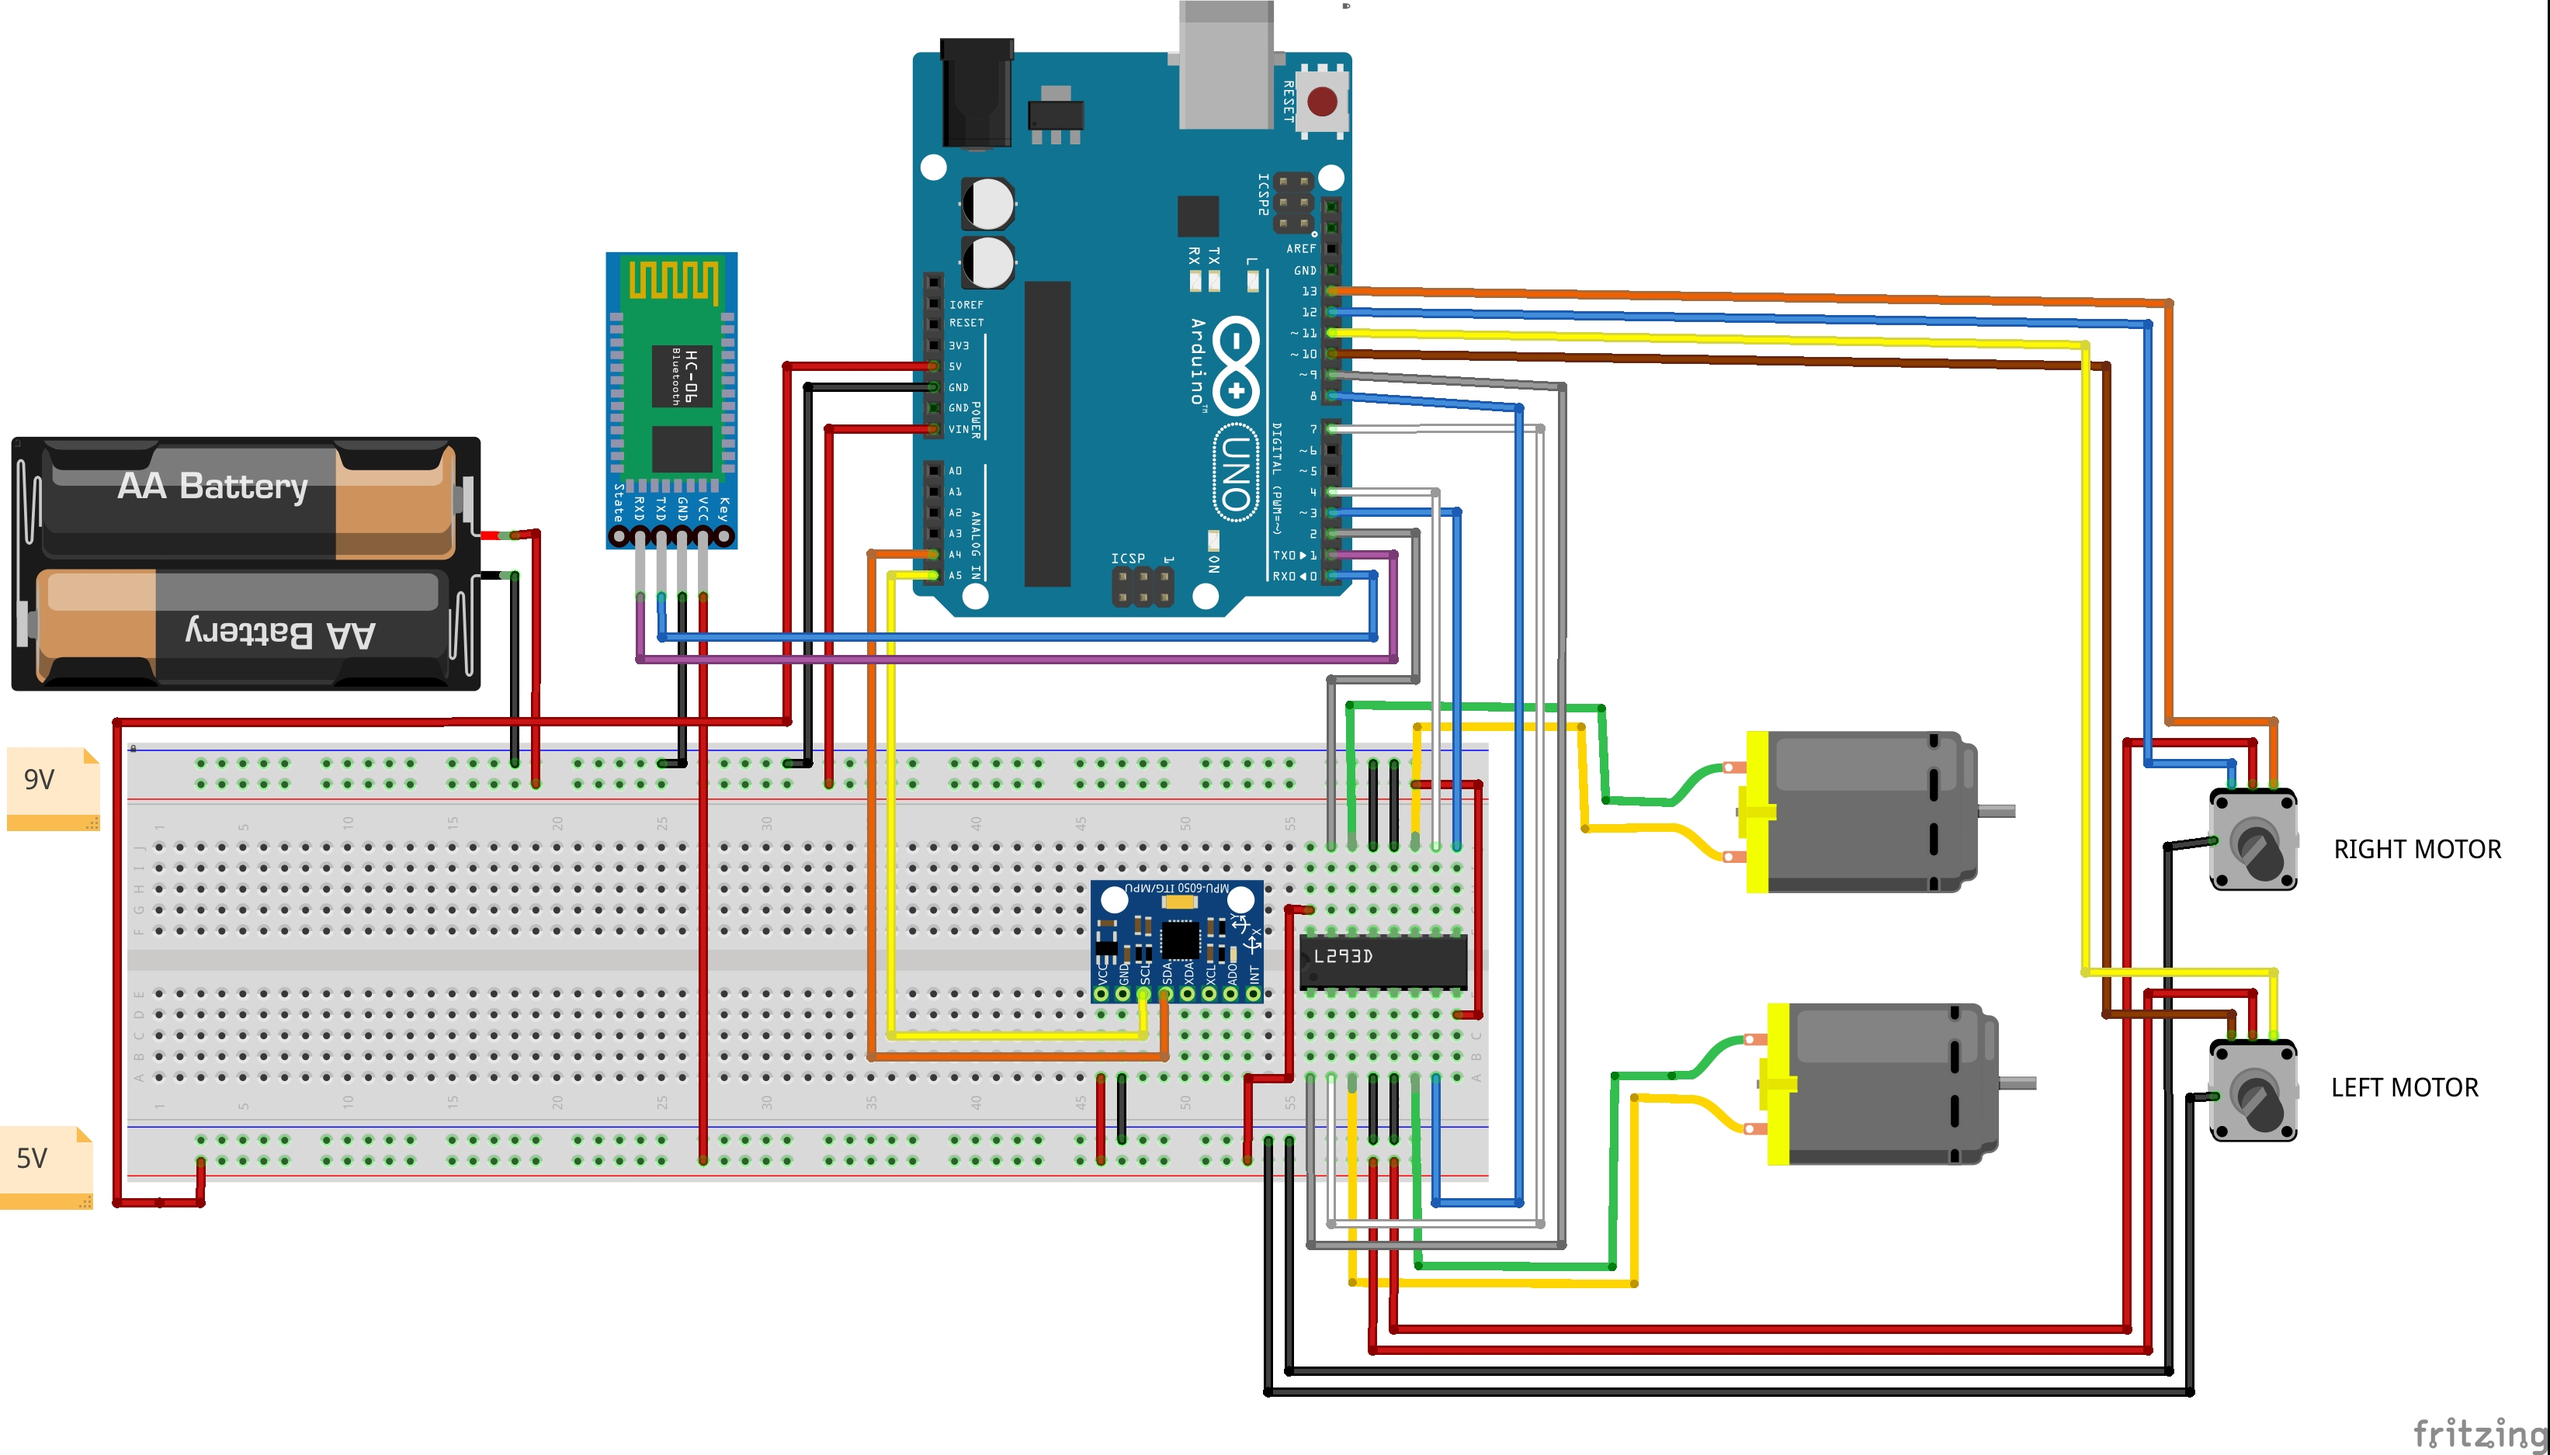
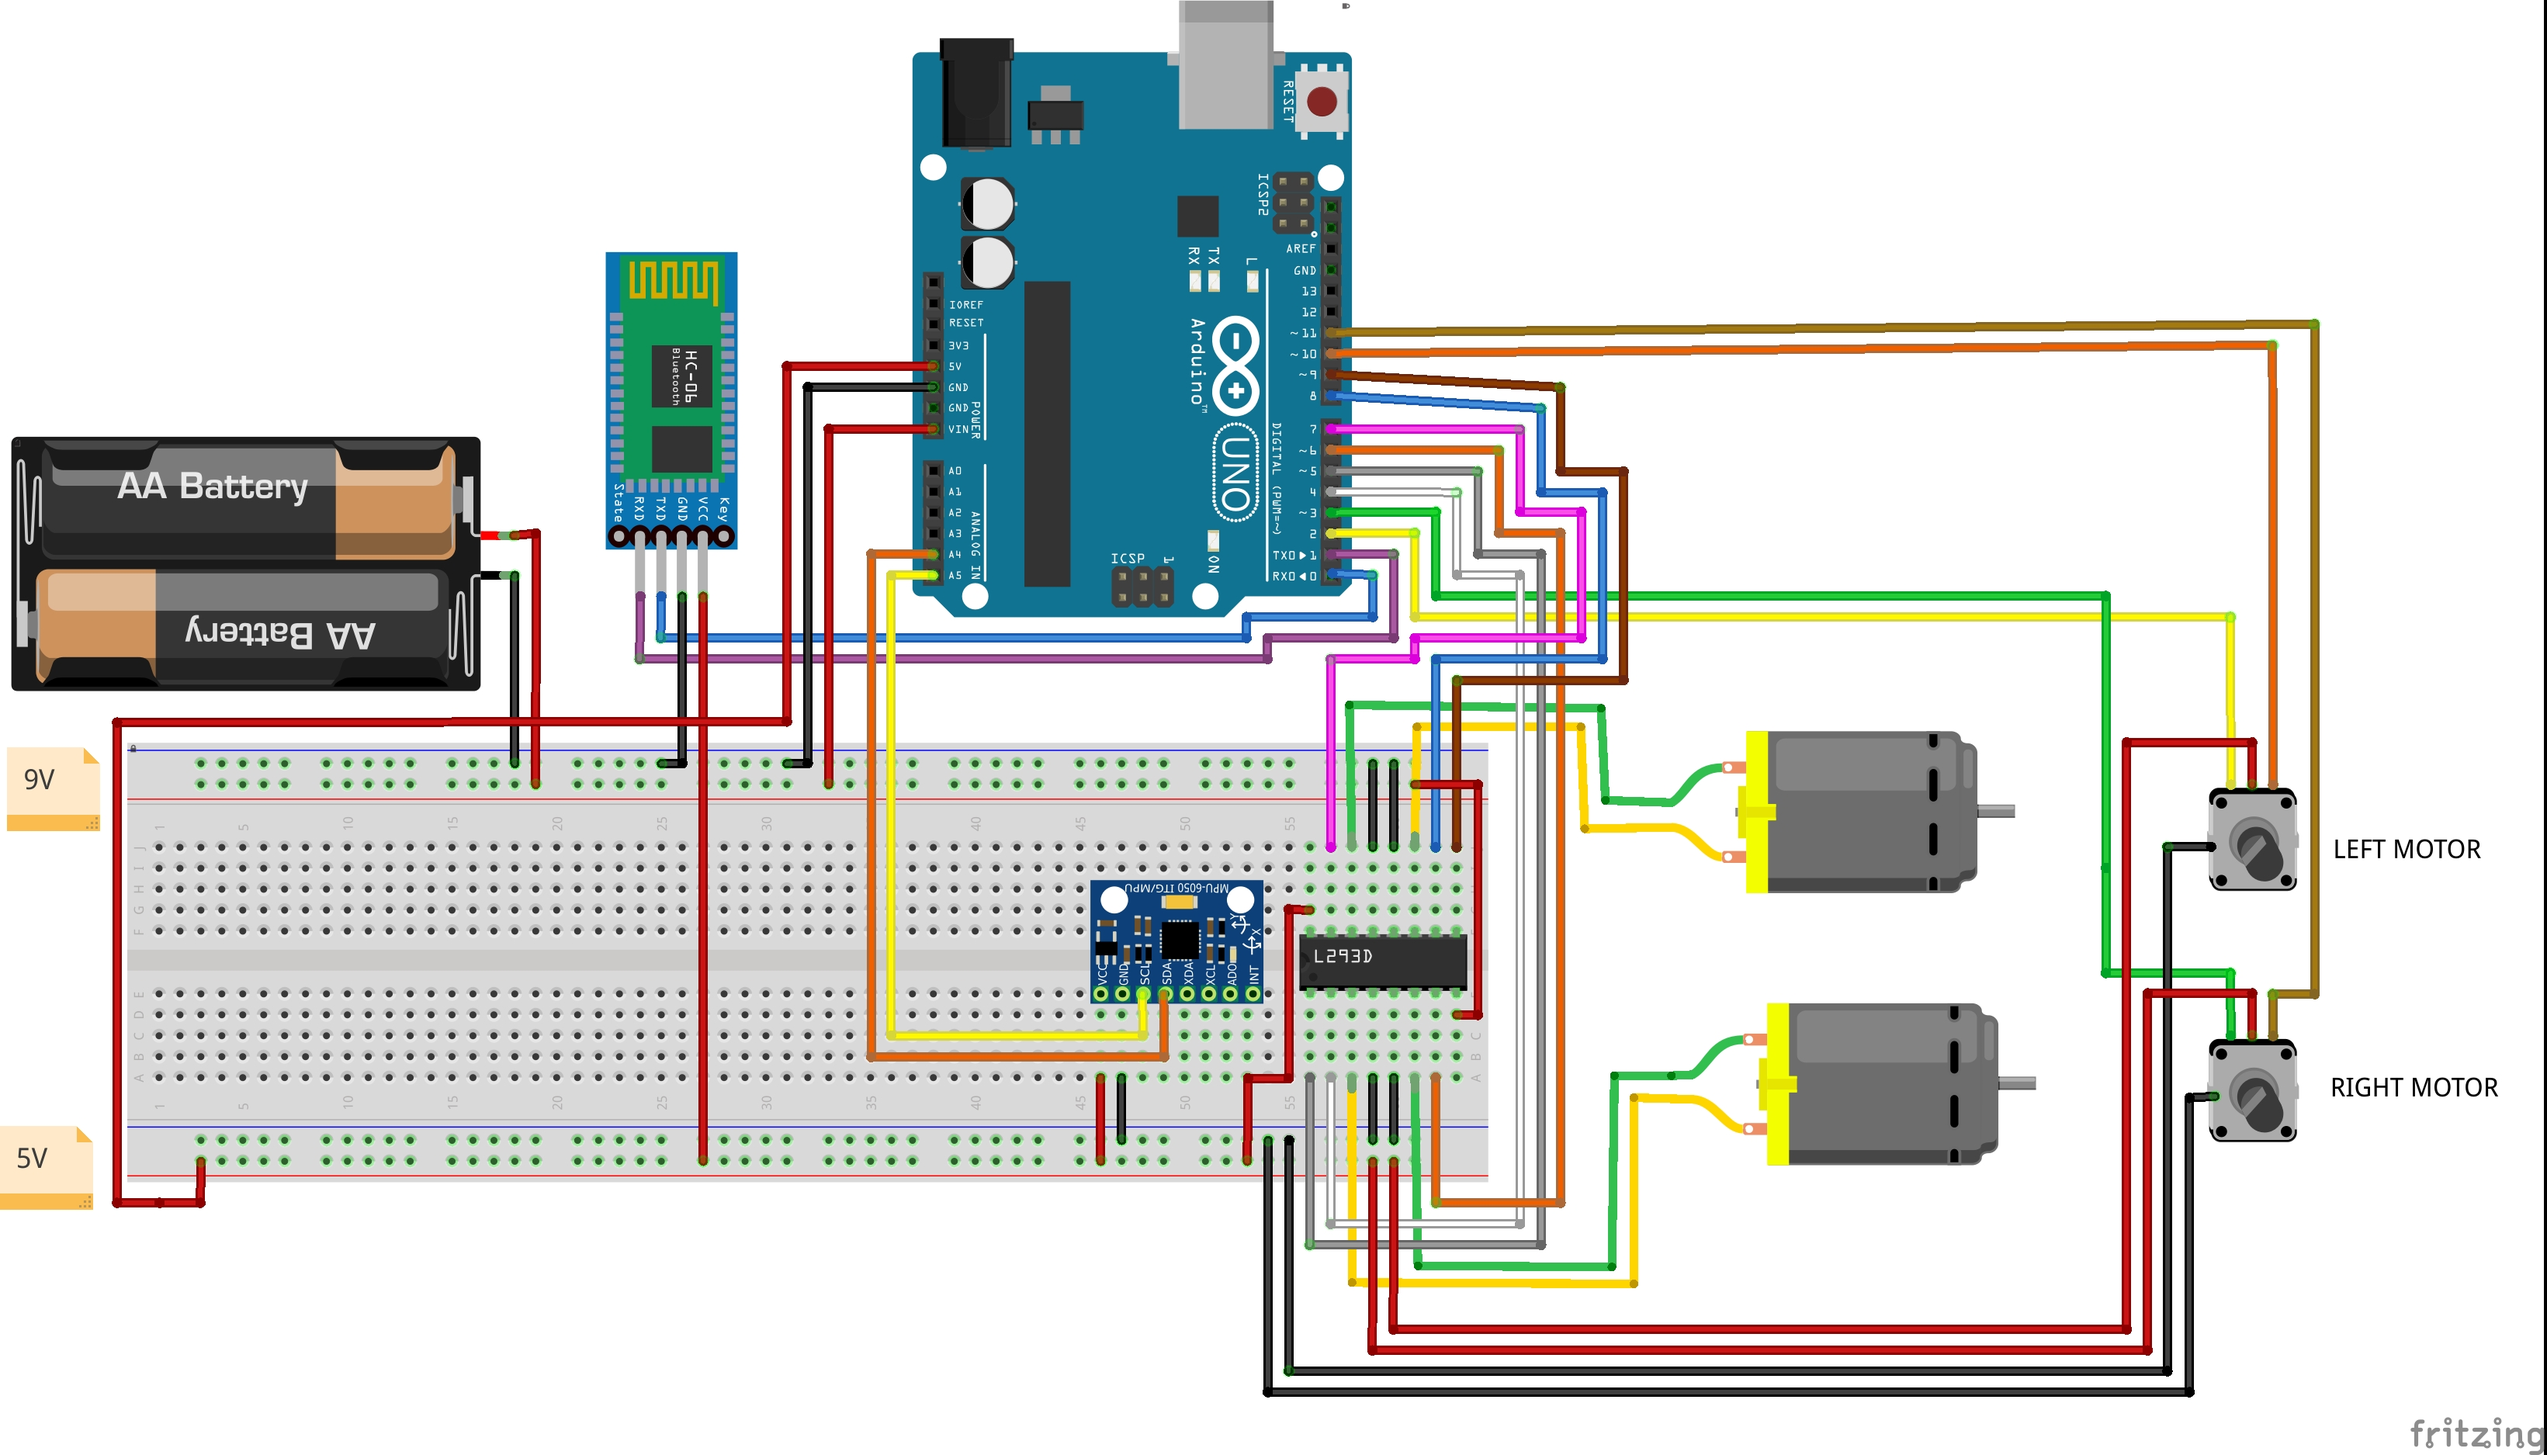
New schematics

diff --git a/README.md b/README.md
@@ -4,16 +4,16 @@
 	
 	* Arduino Pin 0  <---> HC-06 TXD
     * Arduino Pin 1  <---> HC-06 RXD
-	* Arduino Pin 2  <---> L293D pin 15
-	* Arduino Pin 3  <---> L293D pin 9
-	* Arduino Pin 4  <---> L293D pin 10
-	* Arduino Pin 7  <---> L293D pin 2
-	* Arduino Pin 8  <---> L293D pin 7
-	* Arduino Pin 9  <---> L293D pin 1
+	* Arduino Pin 2  <---> Endoder 1 - Data
+	* Arduino Pin 3  <---> Endoder 2 - Data
+	* Arduino Pin 4  <---> L293D pin 2
+	* Arduino Pin 5  <---> L293D pin 1
+	* Arduino Pin 6  <---> L293D pin 7
+	* Arduino Pin 7  <---> L293D pin 15
+	* Arduino Pin 8  <---> L293D pin 10
+	* Arduino Pin 9  <---> L293D pin 9
 	* Arduino Pin 10 <---> Endoder 1 - Clock
-	* Arduino Pin 11 <---> Endoder 2 - Data
-	* Arduino Pin 12 <---> Endoder 2 - Clock
-	* Arduino Pin 13 <---> Endoder 2 - Data
+	* Arduino Pin 11 <---> Endoder 2 - Clock
 	* Arduino Pin A4 <---> GY-521 - SCL
 	* Arduino Pin A5 <---> GY-521 - SDA
 	
